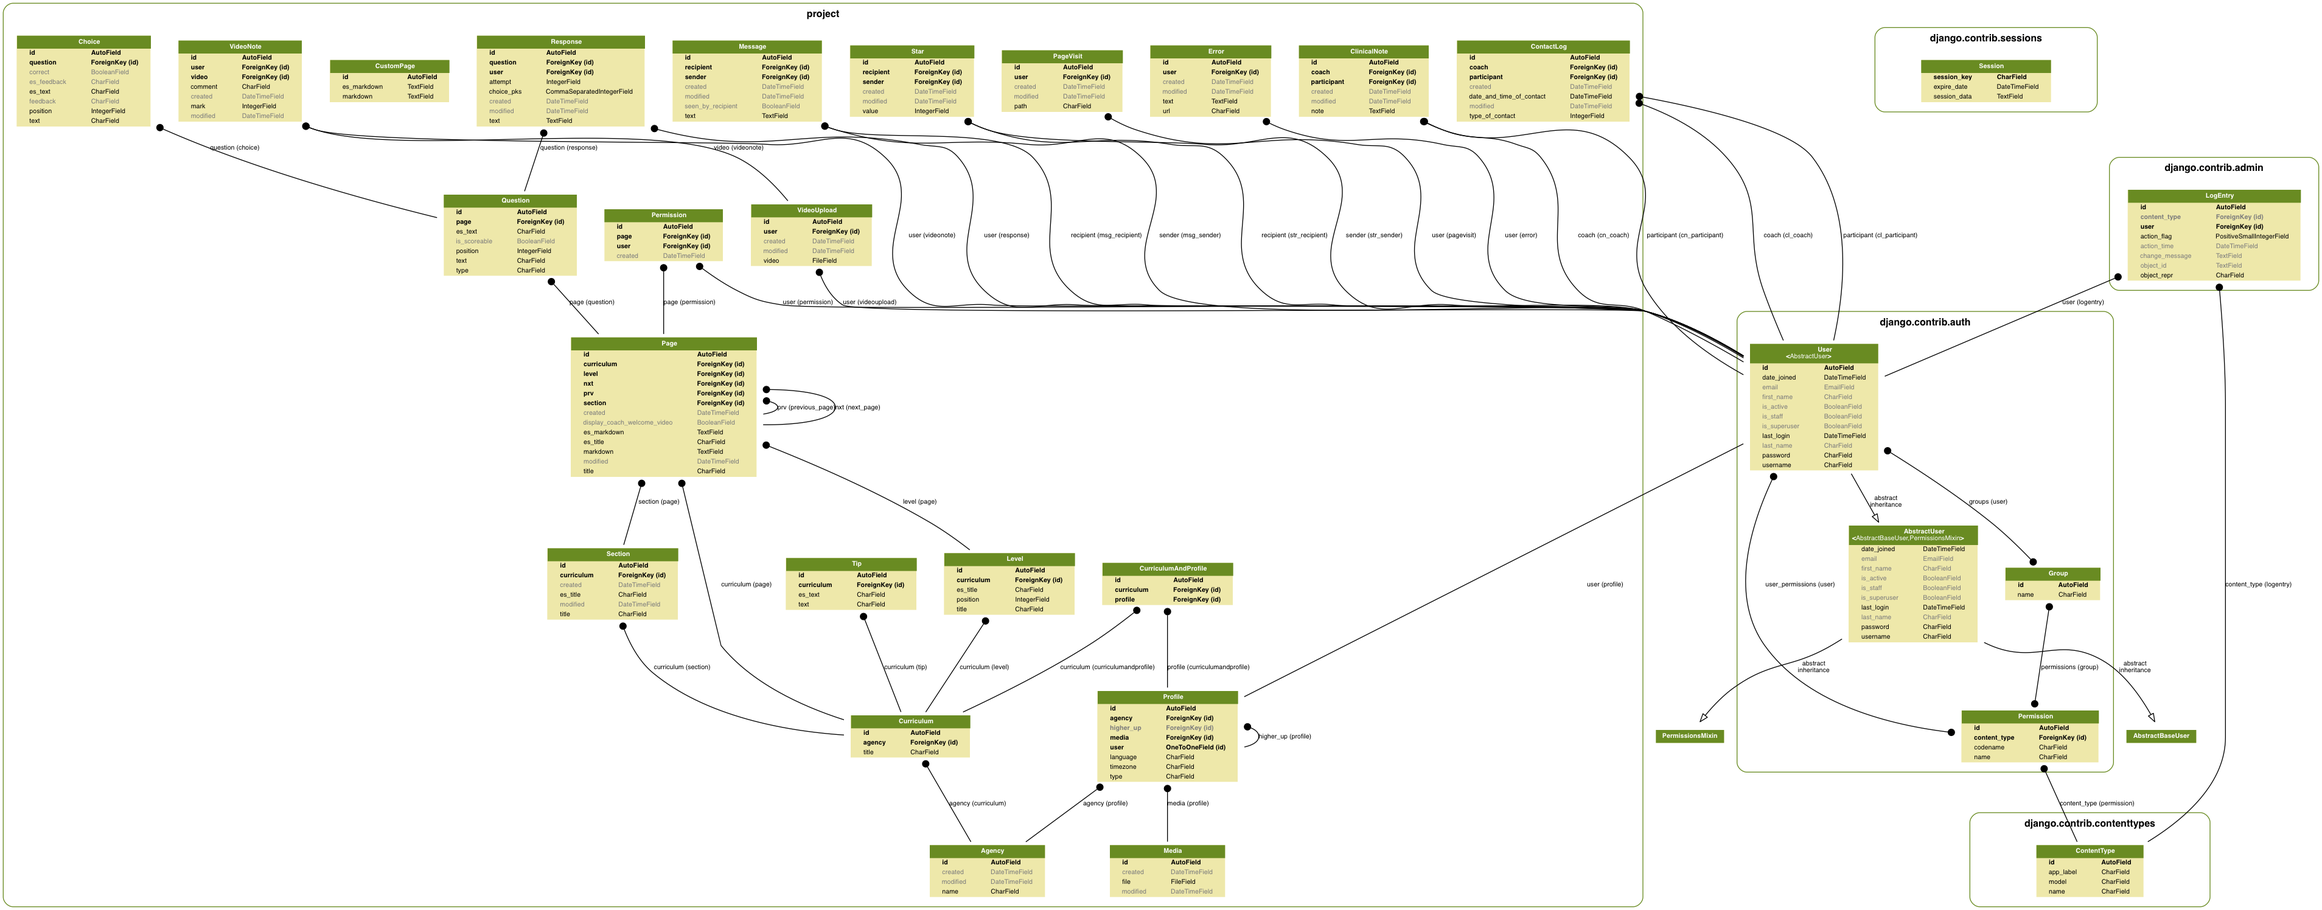
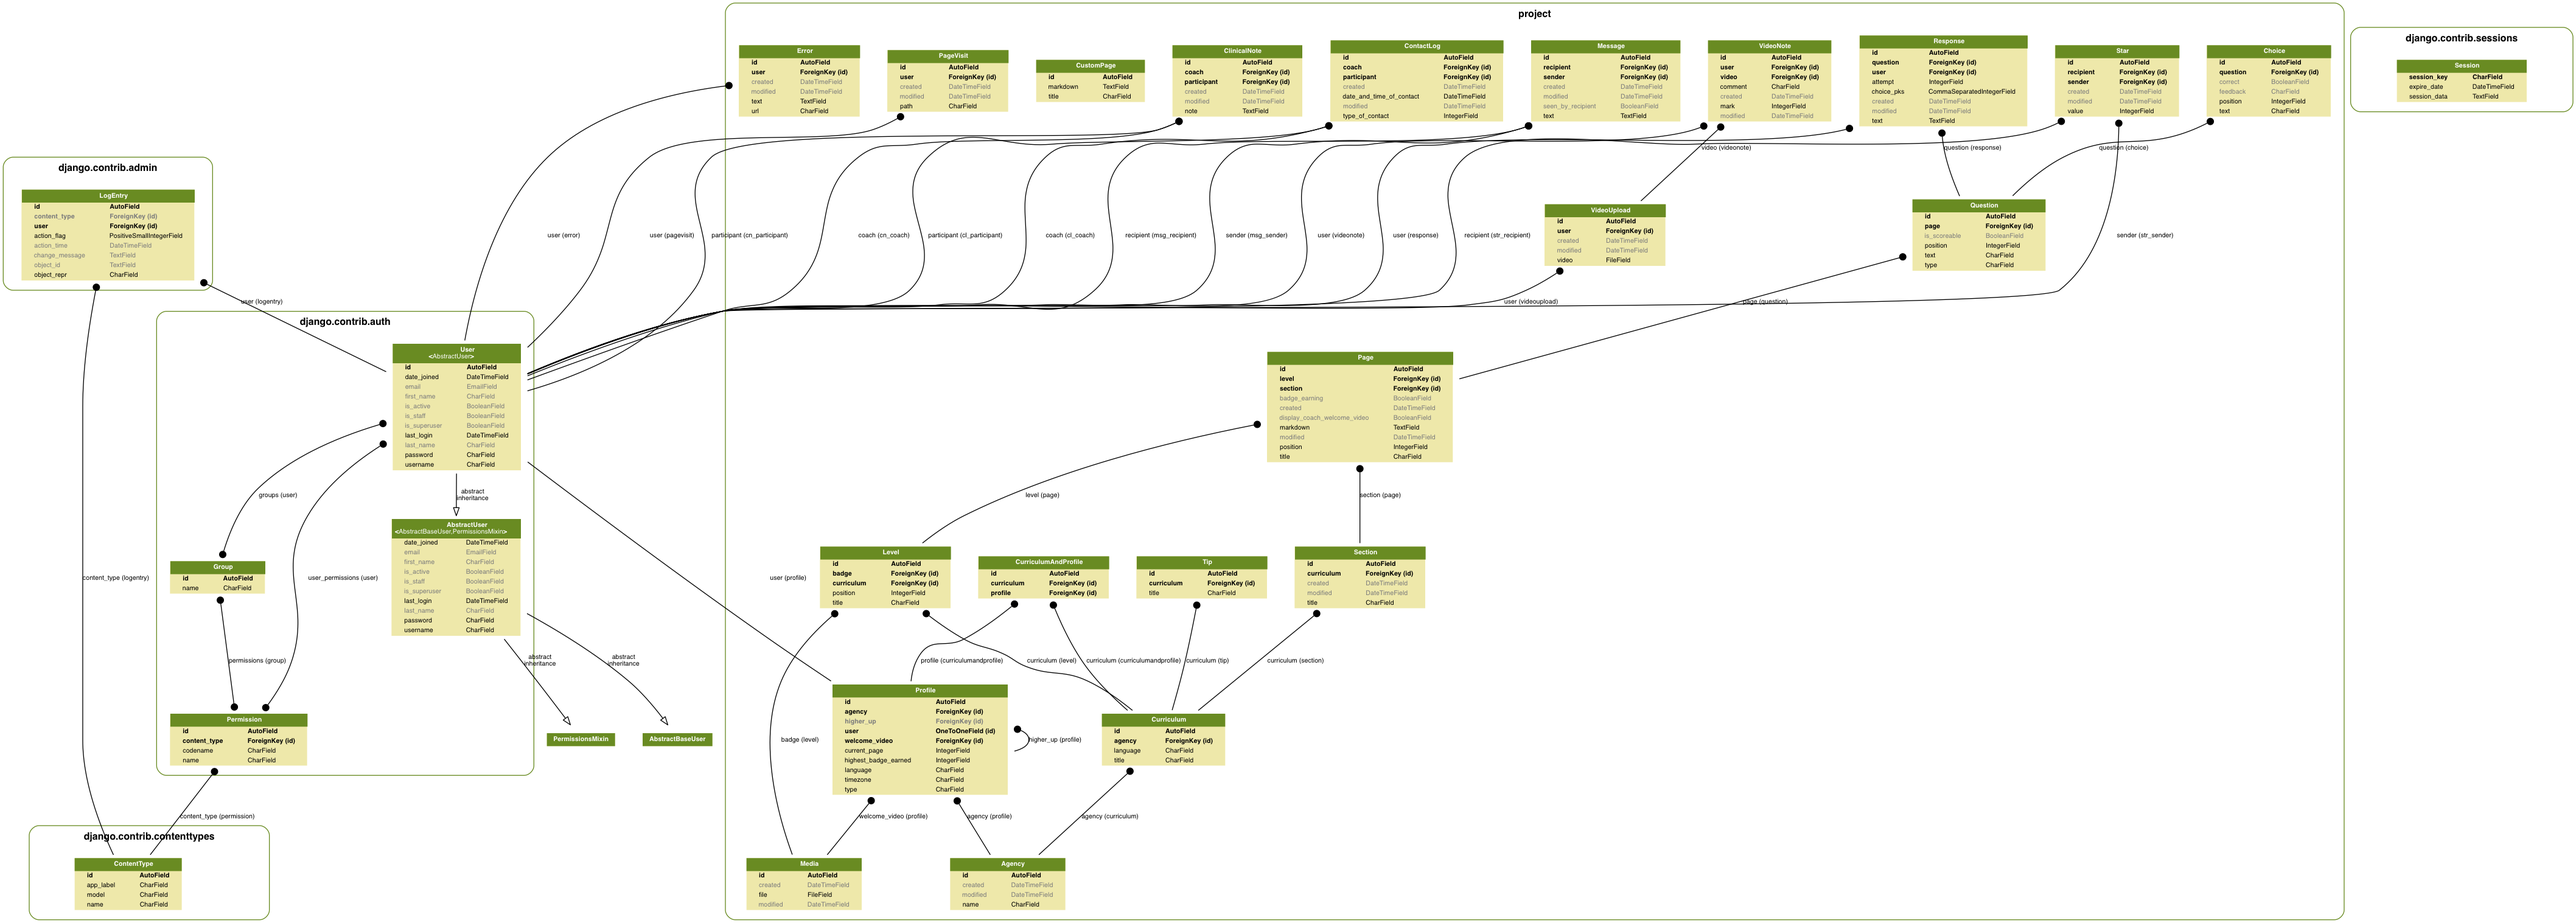
model changes

diff --git a/project/project/models.py b/project/project/models.py
@@ -55,6 +55,8 @@ class Profile(models.Model):
 
     current_page = models.IntegerField(default=1, help_text="This field starts at 1 so the user can access the first page of the curriculum. It is automatically incremented upon viewing a page IFF (1) page.position-1=current_page and (2) page.level = current_page.level. Otherwise it can be set by the higher_up to be level.first_page.position.")
 
+    highest_badge_earned = models.IntegerField(default=0, help_text="This field starts at 0, upon viewing a badge earning padge, this will change to the position of the level of that page (if that position is greater than the current value).")
+
     def belongs_to(self, profile):
         """
             This function determines if a user is associated with another user.
@@ -157,24 +159,6 @@ class Curriculum(models.Model, TitleMixin):
     agency = models.ForeignKey(Agency)
     language = models.CharField(max_length=4,help_text='What language is this curriculum in?')
 
-class CurriculumAndProfile(models.Model):
-    """
-        This table distinguishes which profile's have access to which curriculum.
-        A coach may have access to a home visitor training course and PALS. Participants
-        will probably just have access to one curriculum (ePALS1 or ePALS2)
-    """
-    curriculum = models.ForeignKey(Curriculum)
-    profile = models.ForeignKey(Profile)
-
-class Badge(models.Model):
-    """
-        A badge is just a link between a level and a user.
-        Existence of this link implies the level badge was earned by the user.
-        These should be unique. A user should not have earned the completion badge for a level twice.
-    """
-    level = models.ForeignKey(Level)
-    user = models.ForeignKey(User)
-
 class Level(models.Model, TitleMixin):
     curriculum = models.ForeignKey(Curriculum)
     badge = models.ForeignKey(Media)
@@ -192,6 +176,15 @@ class Level(models.Model, TitleMixin):
             list.append(curr)
             curr = curr.nxt
         return list
+
+class CurriculumAndProfile(models.Model):
+    """
+        This table distinguishes which profile's have access to which curriculum.
+        A coach may have access to a home visitor training course and PALS. Participants
+        will probably just have access to one curriculum (ePALS1 or ePALS2)
+    """
+    curriculum = models.ForeignKey(Curriculum)
+    profile = models.ForeignKey(Profile)
 
 class Section(models.Model, TitleMixin):
     title = models.CharField(max_length=255)
